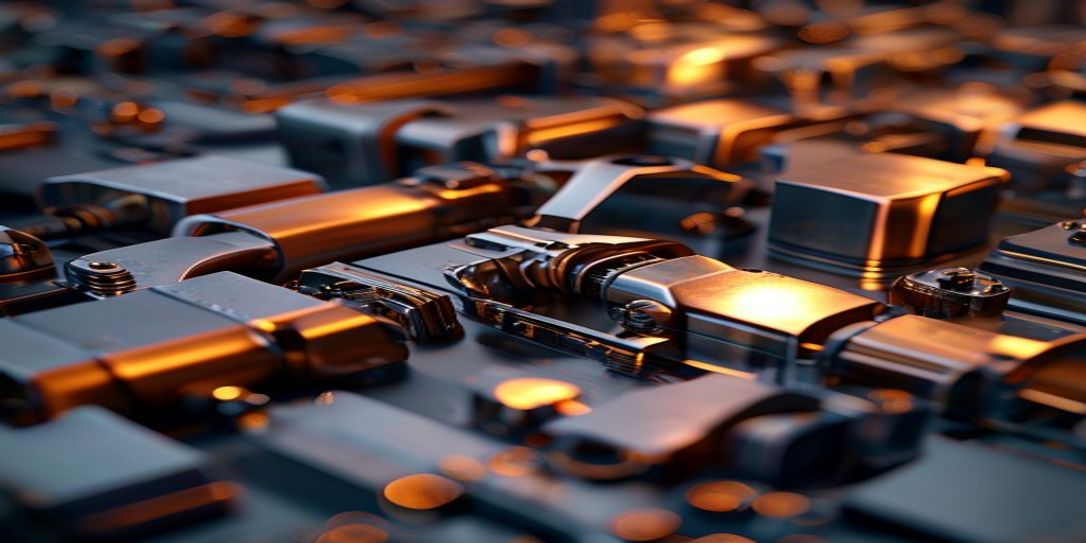
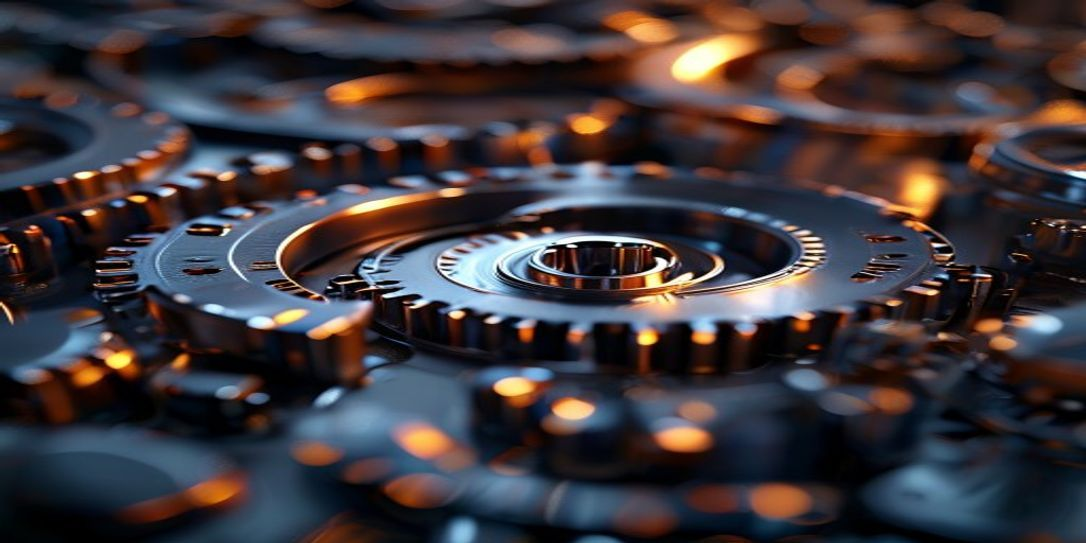
V22.3 Update Strict Language

diff --git a/index.html b/index.html
@@ -1,1 +1,1 @@
-<!DOCTYPE html><html lang='pt-br'><head><meta charset='UTF-8'><script src='https://cdn.tailwindcss.com'></script><title>Global B2B Hub</title></head><body class='bg-[#020202] text-zinc-100'><main class='max-w-7xl mx-auto p-10'><h1 class='text-6xl font-black mb-10'>Global <span class='text-emerald-500'>B2B</span> Hub</h1><div class='grid grid-cols-1 md:grid-cols-3 gap-6'><a href='ingenieria-de-criogenia-industrial-de-alto-rendimiento.html' class='block p-6 border border-emerald-500/50 shadow-[0_0_15px_rgba(16,185,129,0.1)] bg-[#080808] hover:bg-zinc-900 rounded-xl transition-all'><h2 class='text-xl font-bold text-zinc-100'>Ingenieria De Criogenia Industrial De Alto Rendimiento</h2></a><a href='.html' class='block p-6 border border-zinc-800 bg-[#080808] hover:bg-zinc-900 rounded-xl transition-all'><h2 class='text-xl font-bold text-zinc-100'></h2></a><a href='cryogenic-pump-engineering.html' class='block p-6 border border-zinc-800 bg-[#080808] hover:bg-zinc-900 rounded-xl transition-all'><h2 class='text-xl font-bold text-zinc-100'>Cryogenic Pump Engineering</h2></a><a href='superalloy-fabrication.html' class='block p-6 border border-zinc-800 bg-[#080808] hover:bg-zinc-900 rounded-xl transition-all'><h2 class='text-xl font-bold text-zinc-100'>Superalloy Fabrication</h2></a><a href='criomecanica-de-fluidos-de-alta-presion.html' class='block p-6 border border-zinc-800 bg-[#080808] hover:bg-zinc-900 rounded-xl transition-all'><h2 class='text-xl font-bold text-zinc-100'>Criomecanica De Fluidos De Alta Presion</h2></a><a href='aeroderivatives.html' class='block p-6 border border-zinc-800 bg-[#080808] hover:bg-zinc-900 rounded-xl transition-all'><h2 class='text-xl font-bold text-zinc-100'>Aeroderivatives</h2></a><a href='turbina-eolica-offshore.html' class='block p-6 border border-zinc-800 bg-[#080808] hover:bg-zinc-900 rounded-xl transition-all'><h2 class='text-xl font-bold text-zinc-100'>Turbina Eolica Offshore</h2></a><a href='robotica-subaquatica-industrial.html' class='block p-6 border border-zinc-800 bg-[#080808] hover:bg-zinc-900 rounded-xl transition-all'><h2 class='text-xl font-bold text-zinc-100'>Robotica Subaquatica Industrial</h2></a><a href='turbinas-hidreletricas.html' class='block p-6 border border-zinc-800 bg-[#080808] hover:bg-zinc-900 rounded-xl transition-all'><h2 class='text-xl font-bold text-zinc-100'>Turbinas Hidreletricas</h2></a><a href='engenharia-de-manutencao-de-turbinas-eolicas.html' class='block p-6 border border-zinc-800 bg-[#080808] hover:bg-zinc-900 rounded-xl transition-all'><h2 class='text-xl font-bold text-zinc-100'>Engenharia De Manutencao De Turbinas Eolicas</h2></a><a href='engenharia-de-materiais-avancados-para-aplicacoes-aeroespaciais.html' class='block p-6 border border-zinc-800 bg-[#080808] hover:bg-zinc-900 rounded-xl transition-all'><h2 class='text-xl font-bold text-zinc-100'>Engenharia De Materiais Avancados Para Aplicacoes Aeroespaciais</h2></a><a href='engenharia-de-materiais-avancados-para-aerodinamica.html' class='block p-6 border border-zinc-800 bg-[#080808] hover:bg-zinc-900 rounded-xl transition-all'><h2 class='text-xl font-bold text-zinc-100'>Engenharia De Materiais Avancados Para Aerodinamica</h2></a><a href='engenharia-de-sistemas-de-aquecimento-por-inducao.html' class='block p-6 border border-zinc-800 bg-[#080808] hover:bg-zinc-900 rounded-xl transition-all'><h2 class='text-xl font-bold text-zinc-100'>Engenharia De Sistemas De Aquecimento Por Inducao</h2></a><a href='engenharia-de-supercondutores.html' class='block p-6 border border-zinc-800 bg-[#080808] hover:bg-zinc-900 rounded-xl transition-all'><h2 class='text-xl font-bold text-zinc-100'>Engenharia De Supercondutores</h2></a><a href='engenharia-de-processos-de-eletrodepositacao-de-metais-exoticos-em-materiais-compositos-avancados.html' class='block p-6 border border-zinc-800 bg-[#080808] hover:bg-zinc-900 rounded-xl transition-all'><h2 class='text-xl font-bold text-zinc-100'>Engenharia De Processos De Eletrodepositacao De Metais Exoticos Em Materiais Compositos Avancados</h2></a><a href='engenharia-de-biomimetismo.html' class='block p-6 border border-zinc-800 bg-[#080808] hover:bg-zinc-900 rounded-xl transition-all'><h2 class='text-xl font-bold text-zinc-100'>Engenharia De Biomimetismo</h2></a><a href='engenharia-de-reatores-de-leito-fluidizado.html' class='block p-6 border border-zinc-800 bg-[#080808] hover:bg-zinc-900 rounded-xl transition-all'><h2 class='text-xl font-bold text-zinc-100'>Engenharia De Reatores De Leito Fluidizado</h2></a><a href='engenharia-de-vibracoes-nao-lineares-em-estruturas-industriais.html' class='block p-6 border border-zinc-800 bg-[#080808] hover:bg-zinc-900 rounded-xl transition-all'><h2 class='text-xl font-bold text-zinc-100'>Engenharia De Vibracoes Nao Lineares Em Estruturas Industriais</h2></a><a href='engenharia-de-tribologia.html' class='block p-6 border border-zinc-800 bg-[#080808] hover:bg-zinc-900 rounded-xl transition-all'><h2 class='text-xl font-bold text-zinc-100'>Engenharia De Tribologia</h2></a><a href='engenharia-de-manutencao-preventiva-de-turbinas-eolicas.html' class='block p-6 border border-zinc-800 bg-[#080808] hover:bg-zinc-900 rounded-xl transition-all'><h2 class='text-xl font-bold text-zinc-100'>Engenharia De Manutencao Preventiva De Turbinas Eolicas</h2></a><a href='engenharia-de-biomecanica-aeroespacial.html' class='block p-6 border border-zinc-800 bg-[#080808] hover:bg-zinc-900 rounded-xl transition-all'><h2 class='text-xl font-bold text-zinc-100'>Engenharia De Biomecanica Aeroespacial</h2></a><a href='engenharia-de-vibroacustica.html' class='block p-6 border border-zinc-800 bg-[#080808] hover:bg-zinc-900 rounded-xl transition-all'><h2 class='text-xl font-bold text-zinc-100'>Engenharia De Vibroacustica</h2></a><a href='engenharia-de-nanotecnologia-aplicada-a-materiais-compositos.html' class='block p-6 border border-zinc-800 bg-[#080808] hover:bg-zinc-900 rounded-xl transition-all'><h2 class='text-xl font-bold text-zinc-100'>Engenharia De Nanotecnologia Aplicada A Materiais Compositos</h2></a><a href='engenharia-de-manutencao-de-sistemas-de-controle-de-processos-industriais.html' class='block p-6 border border-zinc-800 bg-[#080808] hover:bg-zinc-900 rounded-xl transition-all'><h2 class='text-xl font-bold text-zinc-100'>Engenharia De Manutencao De Sistemas De Controle De Processos Industriais</h2></a><a href='engenharia-de-superficies-tribologicas.html' class='block p-6 border border-zinc-800 bg-[#080808] hover:bg-zinc-900 rounded-xl transition-all'><h2 class='text-xl font-bold text-zinc-100'>Engenharia De Superficies Tribologicas</h2></a><a href='engenharia-de-materiais-nanocompositos.html' class='block p-6 border border-zinc-800 bg-[#080808] hover:bg-zinc-900 rounded-xl transition-all'><h2 class='text-xl font-bold text-zinc-100'>Engenharia De Materiais Nanocompositos</h2></a><a href='tecnologia-de-filtracao-de-membranas-industriais.html' class='block p-6 border border-zinc-800 bg-[#080808] hover:bg-zinc-900 rounded-xl transition-all'><h2 class='text-xl font-bold text-zinc-100'>Tecnologia De Filtracao De Membranas Industriais</h2></a><a href='engenharia-de-biomassa.html' class='block p-6 border border-zinc-800 bg-[#080808] hover:bg-zinc-900 rounded-xl transition-all'><h2 class='text-xl font-bold text-zinc-100'>Engenharia De Biomassa</h2></a><a href='engenharia-de-bioseparacao.html' class='block p-6 border border-zinc-800 bg-[#080808] hover:bg-zinc-900 rounded-xl transition-all'><h2 class='text-xl font-bold text-zinc-100'>Engenharia De Bioseparacao</h2></a><a href='turbomaquinas-de-fluxo-axial.html' class='block p-6 border border-zinc-800 bg-[#080808] hover:bg-zinc-900 rounded-xl transition-all'><h2 class='text-xl font-bold text-zinc-100'>Turbomaquinas De Fluxo Axial</h2></a><a href='engenharia-de-biomecanica-aplicada-a-industria-aeroespacial.html' class='block p-6 border border-zinc-800 bg-[#080808] hover:bg-zinc-900 rounded-xl transition-all'><h2 class='text-xl font-bold text-zinc-100'>Engenharia De Biomecanica Aplicada A Industria Aeroespacial</h2></a><a href='engenharia-de-manutencao-de-turbocompressores.html' class='block p-6 border border-zinc-800 bg-[#080808] hover:bg-zinc-900 rounded-xl transition-all'><h2 class='text-xl font-bold text-zinc-100'>Engenharia De Manutencao De Turbocompressores</h2></a><a href='engenharia-de-soldagem-avancada-para-superligas-de-niquel-e-titanio.html' class='block p-6 border border-zinc-800 bg-[#080808] hover:bg-zinc-900 rounded-xl transition-all'><h2 class='text-xl font-bold text-zinc-100'>Engenharia De Soldagem Avancada Para Superligas De Niquel E Titanio</h2></a><a href='engenharia-de-soldagem-de-materiais-compostos.html' class='block p-6 border border-zinc-800 bg-[#080808] hover:bg-zinc-900 rounded-xl transition-all'><h2 class='text-xl font-bold text-zinc-100'>Engenharia De Soldagem De Materiais Compostos</h2></a><a href='engenharia-de-mecatronica-aeroespacial.html' class='block p-6 border border-zinc-800 bg-[#080808] hover:bg-zinc-900 rounded-xl transition-all'><h2 class='text-xl font-bold text-zinc-100'>Engenharia De Mecatronica Aeroespacial</h2></a><a href='engenharia-de-aerogel.html' class='block p-6 border border-zinc-800 bg-[#080808] hover:bg-zinc-900 rounded-xl transition-all'><h2 class='text-xl font-bold text-zinc-100'>Engenharia De Aerogel</h2></a><a href='engenharia-de-protecao-contra-descargas-eletricas-atmosfericas.html' class='block p-6 border border-zinc-800 bg-[#080808] hover:bg-zinc-900 rounded-xl transition-all'><h2 class='text-xl font-bold text-zinc-100'>Engenharia De Protecao Contra Descargas Eletricas Atmosfericas</h2></a><a href='engenharia-de-superalimentos.html' class='block p-6 border border-zinc-800 bg-[#080808] hover:bg-zinc-900 rounded-xl transition-all'><h2 class='text-xl font-bold text-zinc-100'>Engenharia De Superalimentos</h2></a><a href='engenharia-de-reatores-nucleares.html' class='block p-6 border border-zinc-800 bg-[#080808] hover:bg-zinc-900 rounded-xl transition-all'><h2 class='text-xl font-bold text-zinc-100'>Engenharia De Reatores Nucleares</h2></a><a href='turbomaquinas-axiais-de-fluxo-comprimido.html' class='block p-6 border border-zinc-800 bg-[#080808] hover:bg-zinc-900 rounded-xl transition-all'><h2 class='text-xl font-bold text-zinc-100'>Turbomaquinas Axiais De Fluxo Comprimido</h2></a><a href='engenharia-de-nanotecnologia-de-superficies.html' class='block p-6 border border-zinc-800 bg-[#080808] hover:bg-zinc-900 rounded-xl transition-all'><h2 class='text-xl font-bold text-zinc-100'>Engenharia De Nanotecnologia De Superficies</h2></a><a href='engenharia-de-nanotecnologia-industrial.html' class='block p-6 border border-zinc-800 bg-[#080808] hover:bg-zinc-900 rounded-xl transition-all'><h2 class='text-xl font-bold text-zinc-100'>Engenharia De Nanotecnologia Industrial</h2></a><a href='engenharia-de-biomecanica-de-materiais-compositos.html' class='block p-6 border border-zinc-800 bg-[#080808] hover:bg-zinc-900 rounded-xl transition-all'><h2 class='text-xl font-bold text-zinc-100'>Engenharia De Biomecanica De Materiais Compositos</h2></a><a href='engenharia-de-superficies-funcionais.html' class='block p-6 border border-zinc-800 bg-[#080808] hover:bg-zinc-900 rounded-xl transition-all'><h2 class='text-xl font-bold text-zinc-100'>Engenharia De Superficies Funcionais</h2></a><a href='engenharia-de-manutencao-predictiva-de-equipamentos-petroquimicos.html' class='block p-6 border border-zinc-800 bg-[#080808] hover:bg-zinc-900 rounded-xl transition-all'><h2 class='text-xl font-bold text-zinc-100'>Engenharia De Manutencao Predictiva De Equipamentos Petroquimicos</h2></a><a href='engenharia-de-bioreator-de-fluxo-continuo-em-escala-industrial.html' class='block p-6 border border-zinc-800 bg-[#080808] hover:bg-zinc-900 rounded-xl transition-all'><h2 class='text-xl font-bold text-zinc-100'>Engenharia De Bioreator De Fluxo Continuo Em Escala Industrial</h2></a><a href='engenharia-de-processos-metalurgicos-avancados-de-ligas-especiais.html' class='block p-6 border border-zinc-800 bg-[#080808] hover:bg-zinc-900 rounded-xl transition-all'><h2 class='text-xl font-bold text-zinc-100'>Engenharia De Processos Metalurgicos Avancados De Ligas Especiais</h2></a><a href='engenharia-de-bioseparacao-de-processos-quimicos.html' class='block p-6 border border-zinc-800 bg-[#080808] hover:bg-zinc-900 rounded-xl transition-all'><h2 class='text-xl font-bold text-zinc-100'>Engenharia De Bioseparacao De Processos Quimicos</h2></a><a href='engenharia-de-processos-de-reatores-de-leito-fluido.html' class='block p-6 border border-zinc-800 bg-[#080808] hover:bg-zinc-900 rounded-xl transition-all'><h2 class='text-xl font-bold text-zinc-100'>Engenharia De Processos De Reatores De Leito Fluido</h2></a><a href='engenharia-de-processos-de-hidrometalurgia.html' class='block p-6 border border-zinc-800 bg-[#080808] hover:bg-zinc-900 rounded-xl transition-all'><h2 class='text-xl font-bold text-zinc-100'>Engenharia De Processos De Hidrometalurgia</h2></a><a href='engenharia-de-nanotecnologia-de-materiais-avancados.html' class='block p-6 border border-zinc-800 bg-[#080808] hover:bg-zinc-900 rounded-xl transition-all'><h2 class='text-xl font-bold text-zinc-100'>Engenharia De Nanotecnologia De Materiais Avancados</h2></a><a href='turbomaquinas-de-gas.html' class='block p-6 border border-zinc-800 bg-[#080808] hover:bg-zinc-900 rounded-xl transition-all'><h2 class='text-xl font-bold text-zinc-100'>Turbomaquinas De Gas</h2></a><a href='engenharia-de-filtracao-de-nanoparticulas.html' class='block p-6 border border-zinc-800 bg-[#080808] hover:bg-zinc-900 rounded-xl transition-all'><h2 class='text-xl font-bold text-zinc-100'>Engenharia De Filtracao De Nanoparticulas</h2></a><a href='engenharia-de-biomimetismo-estrutural.html' class='block p-6 border border-zinc-800 bg-[#080808] hover:bg-zinc-900 rounded-xl transition-all'><h2 class='text-xl font-bold text-zinc-100'>Engenharia De Biomimetismo Estrutural</h2></a><a href='engenharia-de-manutencao-de-turbo-compressores.html' class='block p-6 border border-zinc-800 bg-[#080808] hover:bg-zinc-900 rounded-xl transition-all'><h2 class='text-xl font-bold text-zinc-100'>Engenharia De Manutencao De Turbo Compressores</h2></a><a href='engenharia-de-mecatronica-industrial-para-sistemas-de-automacao-de-processos-quimicos-em-plantas-de-producao-de-biocombustiveis.html' class='block p-6 border border-zinc-800 bg-[#080808] hover:bg-zinc-900 rounded-xl transition-all'><h2 class='text-xl font-bold text-zinc-100'>Engenharia De Mecatronica Industrial Para Sistemas De Automacao De Processos Quimicos Em Plantas De Producao De Biocombustiveis</h2></a><a href='engenharia-de-tribologia-aplicada.html' class='block p-6 border border-zinc-800 bg-[#080808] hover:bg-zinc-900 rounded-xl transition-all'><h2 class='text-xl font-bold text-zinc-100'>Engenharia De Tribologia Aplicada</h2></a><a href='engenharia-de-sistemas-de-filtracao-de-membrana.html' class='block p-6 border border-zinc-800 bg-[#080808] hover:bg-zinc-900 rounded-xl transition-all'><h2 class='text-xl font-bold text-zinc-100'>Engenharia De Sistemas De Filtracao De Membrana</h2></a><a href='engenharia-de-bioremedicao.html' class='block p-6 border border-zinc-800 bg-[#080808] hover:bg-zinc-900 rounded-xl transition-all'><h2 class='text-xl font-bold text-zinc-100'>Engenharia De Bioremedicao</h2></a><a href='engenharia-de-nanotribologia.html' class='block p-6 border border-zinc-800 bg-[#080808] hover:bg-zinc-900 rounded-xl transition-all'><h2 class='text-xl font-bold text-zinc-100'>Engenharia De Nanotribologia</h2></a><a href='geradores-de-ar-comprimido-industriais.html' class='block p-6 border border-zinc-800 bg-[#080808] hover:bg-zinc-900 rounded-xl transition-all'><h2 class='text-xl font-bold text-zinc-100'>Geradores De Ar Comprimido Industriais</h2></a></div></main></body></html>
+<!DOCTYPE html><html lang='pt-br'><head><meta charset='UTF-8'><script src='https://cdn.tailwindcss.com'></script><title>Global B2B Hub</title></head><body class='bg-[#020202] text-zinc-100'><main class='max-w-7xl mx-auto p-10'><h1 class='text-6xl font-black mb-10'>Global <span class='text-emerald-500'>B2B</span> Hub</h1><div class='grid grid-cols-1 md:grid-cols-3 gap-6'><a href='.html' class='block p-6 border border-emerald-500/50 shadow-[0_0_15px_rgba(16,185,129,0.1)] bg-[#080808] hover:bg-zinc-900 rounded-xl transition-all'><h2 class='text-xl font-bold text-zinc-100'></h2></a><a href='ingenieria-de-criogenia-industrial-de-alto-rendimiento.html' class='block p-6 border border-zinc-800 bg-[#080808] hover:bg-zinc-900 rounded-xl transition-all'><h2 class='text-xl font-bold text-zinc-100'>Ingenieria De Criogenia Industrial De Alto Rendimiento</h2></a><a href='cryogenic-pump-engineering.html' class='block p-6 border border-zinc-800 bg-[#080808] hover:bg-zinc-900 rounded-xl transition-all'><h2 class='text-xl font-bold text-zinc-100'>Cryogenic Pump Engineering</h2></a><a href='superalloy-fabrication.html' class='block p-6 border border-zinc-800 bg-[#080808] hover:bg-zinc-900 rounded-xl transition-all'><h2 class='text-xl font-bold text-zinc-100'>Superalloy Fabrication</h2></a><a href='criomecanica-de-fluidos-de-alta-presion.html' class='block p-6 border border-zinc-800 bg-[#080808] hover:bg-zinc-900 rounded-xl transition-all'><h2 class='text-xl font-bold text-zinc-100'>Criomecanica De Fluidos De Alta Presion</h2></a><a href='aeroderivatives.html' class='block p-6 border border-zinc-800 bg-[#080808] hover:bg-zinc-900 rounded-xl transition-all'><h2 class='text-xl font-bold text-zinc-100'>Aeroderivatives</h2></a><a href='turbina-eolica-offshore.html' class='block p-6 border border-zinc-800 bg-[#080808] hover:bg-zinc-900 rounded-xl transition-all'><h2 class='text-xl font-bold text-zinc-100'>Turbina Eolica Offshore</h2></a><a href='robotica-subaquatica-industrial.html' class='block p-6 border border-zinc-800 bg-[#080808] hover:bg-zinc-900 rounded-xl transition-all'><h2 class='text-xl font-bold text-zinc-100'>Robotica Subaquatica Industrial</h2></a><a href='turbinas-hidreletricas.html' class='block p-6 border border-zinc-800 bg-[#080808] hover:bg-zinc-900 rounded-xl transition-all'><h2 class='text-xl font-bold text-zinc-100'>Turbinas Hidreletricas</h2></a><a href='engenharia-de-manutencao-de-turbinas-eolicas.html' class='block p-6 border border-zinc-800 bg-[#080808] hover:bg-zinc-900 rounded-xl transition-all'><h2 class='text-xl font-bold text-zinc-100'>Engenharia De Manutencao De Turbinas Eolicas</h2></a><a href='engenharia-de-materiais-avancados-para-aplicacoes-aeroespaciais.html' class='block p-6 border border-zinc-800 bg-[#080808] hover:bg-zinc-900 rounded-xl transition-all'><h2 class='text-xl font-bold text-zinc-100'>Engenharia De Materiais Avancados Para Aplicacoes Aeroespaciais</h2></a><a href='engenharia-de-materiais-avancados-para-aerodinamica.html' class='block p-6 border border-zinc-800 bg-[#080808] hover:bg-zinc-900 rounded-xl transition-all'><h2 class='text-xl font-bold text-zinc-100'>Engenharia De Materiais Avancados Para Aerodinamica</h2></a><a href='engenharia-de-sistemas-de-aquecimento-por-inducao.html' class='block p-6 border border-zinc-800 bg-[#080808] hover:bg-zinc-900 rounded-xl transition-all'><h2 class='text-xl font-bold text-zinc-100'>Engenharia De Sistemas De Aquecimento Por Inducao</h2></a><a href='engenharia-de-supercondutores.html' class='block p-6 border border-zinc-800 bg-[#080808] hover:bg-zinc-900 rounded-xl transition-all'><h2 class='text-xl font-bold text-zinc-100'>Engenharia De Supercondutores</h2></a><a href='engenharia-de-processos-de-eletrodepositacao-de-metais-exoticos-em-materiais-compositos-avancados.html' class='block p-6 border border-zinc-800 bg-[#080808] hover:bg-zinc-900 rounded-xl transition-all'><h2 class='text-xl font-bold text-zinc-100'>Engenharia De Processos De Eletrodepositacao De Metais Exoticos Em Materiais Compositos Avancados</h2></a><a href='engenharia-de-biomimetismo.html' class='block p-6 border border-zinc-800 bg-[#080808] hover:bg-zinc-900 rounded-xl transition-all'><h2 class='text-xl font-bold text-zinc-100'>Engenharia De Biomimetismo</h2></a><a href='engenharia-de-reatores-de-leito-fluidizado.html' class='block p-6 border border-zinc-800 bg-[#080808] hover:bg-zinc-900 rounded-xl transition-all'><h2 class='text-xl font-bold text-zinc-100'>Engenharia De Reatores De Leito Fluidizado</h2></a><a href='engenharia-de-vibracoes-nao-lineares-em-estruturas-industriais.html' class='block p-6 border border-zinc-800 bg-[#080808] hover:bg-zinc-900 rounded-xl transition-all'><h2 class='text-xl font-bold text-zinc-100'>Engenharia De Vibracoes Nao Lineares Em Estruturas Industriais</h2></a><a href='engenharia-de-tribologia.html' class='block p-6 border border-zinc-800 bg-[#080808] hover:bg-zinc-900 rounded-xl transition-all'><h2 class='text-xl font-bold text-zinc-100'>Engenharia De Tribologia</h2></a><a href='engenharia-de-manutencao-preventiva-de-turbinas-eolicas.html' class='block p-6 border border-zinc-800 bg-[#080808] hover:bg-zinc-900 rounded-xl transition-all'><h2 class='text-xl font-bold text-zinc-100'>Engenharia De Manutencao Preventiva De Turbinas Eolicas</h2></a><a href='engenharia-de-biomecanica-aeroespacial.html' class='block p-6 border border-zinc-800 bg-[#080808] hover:bg-zinc-900 rounded-xl transition-all'><h2 class='text-xl font-bold text-zinc-100'>Engenharia De Biomecanica Aeroespacial</h2></a><a href='engenharia-de-vibroacustica.html' class='block p-6 border border-zinc-800 bg-[#080808] hover:bg-zinc-900 rounded-xl transition-all'><h2 class='text-xl font-bold text-zinc-100'>Engenharia De Vibroacustica</h2></a><a href='engenharia-de-nanotecnologia-aplicada-a-materiais-compositos.html' class='block p-6 border border-zinc-800 bg-[#080808] hover:bg-zinc-900 rounded-xl transition-all'><h2 class='text-xl font-bold text-zinc-100'>Engenharia De Nanotecnologia Aplicada A Materiais Compositos</h2></a><a href='engenharia-de-manutencao-de-sistemas-de-controle-de-processos-industriais.html' class='block p-6 border border-zinc-800 bg-[#080808] hover:bg-zinc-900 rounded-xl transition-all'><h2 class='text-xl font-bold text-zinc-100'>Engenharia De Manutencao De Sistemas De Controle De Processos Industriais</h2></a><a href='engenharia-de-superficies-tribologicas.html' class='block p-6 border border-zinc-800 bg-[#080808] hover:bg-zinc-900 rounded-xl transition-all'><h2 class='text-xl font-bold text-zinc-100'>Engenharia De Superficies Tribologicas</h2></a><a href='engenharia-de-materiais-nanocompositos.html' class='block p-6 border border-zinc-800 bg-[#080808] hover:bg-zinc-900 rounded-xl transition-all'><h2 class='text-xl font-bold text-zinc-100'>Engenharia De Materiais Nanocompositos</h2></a><a href='tecnologia-de-filtracao-de-membranas-industriais.html' class='block p-6 border border-zinc-800 bg-[#080808] hover:bg-zinc-900 rounded-xl transition-all'><h2 class='text-xl font-bold text-zinc-100'>Tecnologia De Filtracao De Membranas Industriais</h2></a><a href='engenharia-de-biomassa.html' class='block p-6 border border-zinc-800 bg-[#080808] hover:bg-zinc-900 rounded-xl transition-all'><h2 class='text-xl font-bold text-zinc-100'>Engenharia De Biomassa</h2></a><a href='engenharia-de-bioseparacao.html' class='block p-6 border border-zinc-800 bg-[#080808] hover:bg-zinc-900 rounded-xl transition-all'><h2 class='text-xl font-bold text-zinc-100'>Engenharia De Bioseparacao</h2></a><a href='turbomaquinas-de-fluxo-axial.html' class='block p-6 border border-zinc-800 bg-[#080808] hover:bg-zinc-900 rounded-xl transition-all'><h2 class='text-xl font-bold text-zinc-100'>Turbomaquinas De Fluxo Axial</h2></a><a href='engenharia-de-biomecanica-aplicada-a-industria-aeroespacial.html' class='block p-6 border border-zinc-800 bg-[#080808] hover:bg-zinc-900 rounded-xl transition-all'><h2 class='text-xl font-bold text-zinc-100'>Engenharia De Biomecanica Aplicada A Industria Aeroespacial</h2></a><a href='engenharia-de-manutencao-de-turbocompressores.html' class='block p-6 border border-zinc-800 bg-[#080808] hover:bg-zinc-900 rounded-xl transition-all'><h2 class='text-xl font-bold text-zinc-100'>Engenharia De Manutencao De Turbocompressores</h2></a><a href='engenharia-de-soldagem-avancada-para-superligas-de-niquel-e-titanio.html' class='block p-6 border border-zinc-800 bg-[#080808] hover:bg-zinc-900 rounded-xl transition-all'><h2 class='text-xl font-bold text-zinc-100'>Engenharia De Soldagem Avancada Para Superligas De Niquel E Titanio</h2></a><a href='engenharia-de-soldagem-de-materiais-compostos.html' class='block p-6 border border-zinc-800 bg-[#080808] hover:bg-zinc-900 rounded-xl transition-all'><h2 class='text-xl font-bold text-zinc-100'>Engenharia De Soldagem De Materiais Compostos</h2></a><a href='engenharia-de-mecatronica-aeroespacial.html' class='block p-6 border border-zinc-800 bg-[#080808] hover:bg-zinc-900 rounded-xl transition-all'><h2 class='text-xl font-bold text-zinc-100'>Engenharia De Mecatronica Aeroespacial</h2></a><a href='engenharia-de-aerogel.html' class='block p-6 border border-zinc-800 bg-[#080808] hover:bg-zinc-900 rounded-xl transition-all'><h2 class='text-xl font-bold text-zinc-100'>Engenharia De Aerogel</h2></a><a href='engenharia-de-protecao-contra-descargas-eletricas-atmosfericas.html' class='block p-6 border border-zinc-800 bg-[#080808] hover:bg-zinc-900 rounded-xl transition-all'><h2 class='text-xl font-bold text-zinc-100'>Engenharia De Protecao Contra Descargas Eletricas Atmosfericas</h2></a><a href='engenharia-de-superalimentos.html' class='block p-6 border border-zinc-800 bg-[#080808] hover:bg-zinc-900 rounded-xl transition-all'><h2 class='text-xl font-bold text-zinc-100'>Engenharia De Superalimentos</h2></a><a href='engenharia-de-reatores-nucleares.html' class='block p-6 border border-zinc-800 bg-[#080808] hover:bg-zinc-900 rounded-xl transition-all'><h2 class='text-xl font-bold text-zinc-100'>Engenharia De Reatores Nucleares</h2></a><a href='turbomaquinas-axiais-de-fluxo-comprimido.html' class='block p-6 border border-zinc-800 bg-[#080808] hover:bg-zinc-900 rounded-xl transition-all'><h2 class='text-xl font-bold text-zinc-100'>Turbomaquinas Axiais De Fluxo Comprimido</h2></a><a href='engenharia-de-nanotecnologia-de-superficies.html' class='block p-6 border border-zinc-800 bg-[#080808] hover:bg-zinc-900 rounded-xl transition-all'><h2 class='text-xl font-bold text-zinc-100'>Engenharia De Nanotecnologia De Superficies</h2></a><a href='engenharia-de-nanotecnologia-industrial.html' class='block p-6 border border-zinc-800 bg-[#080808] hover:bg-zinc-900 rounded-xl transition-all'><h2 class='text-xl font-bold text-zinc-100'>Engenharia De Nanotecnologia Industrial</h2></a><a href='engenharia-de-biomecanica-de-materiais-compositos.html' class='block p-6 border border-zinc-800 bg-[#080808] hover:bg-zinc-900 rounded-xl transition-all'><h2 class='text-xl font-bold text-zinc-100'>Engenharia De Biomecanica De Materiais Compositos</h2></a><a href='engenharia-de-superficies-funcionais.html' class='block p-6 border border-zinc-800 bg-[#080808] hover:bg-zinc-900 rounded-xl transition-all'><h2 class='text-xl font-bold text-zinc-100'>Engenharia De Superficies Funcionais</h2></a><a href='engenharia-de-manutencao-predictiva-de-equipamentos-petroquimicos.html' class='block p-6 border border-zinc-800 bg-[#080808] hover:bg-zinc-900 rounded-xl transition-all'><h2 class='text-xl font-bold text-zinc-100'>Engenharia De Manutencao Predictiva De Equipamentos Petroquimicos</h2></a><a href='engenharia-de-bioreator-de-fluxo-continuo-em-escala-industrial.html' class='block p-6 border border-zinc-800 bg-[#080808] hover:bg-zinc-900 rounded-xl transition-all'><h2 class='text-xl font-bold text-zinc-100'>Engenharia De Bioreator De Fluxo Continuo Em Escala Industrial</h2></a><a href='engenharia-de-processos-metalurgicos-avancados-de-ligas-especiais.html' class='block p-6 border border-zinc-800 bg-[#080808] hover:bg-zinc-900 rounded-xl transition-all'><h2 class='text-xl font-bold text-zinc-100'>Engenharia De Processos Metalurgicos Avancados De Ligas Especiais</h2></a><a href='engenharia-de-bioseparacao-de-processos-quimicos.html' class='block p-6 border border-zinc-800 bg-[#080808] hover:bg-zinc-900 rounded-xl transition-all'><h2 class='text-xl font-bold text-zinc-100'>Engenharia De Bioseparacao De Processos Quimicos</h2></a><a href='engenharia-de-processos-de-reatores-de-leito-fluido.html' class='block p-6 border border-zinc-800 bg-[#080808] hover:bg-zinc-900 rounded-xl transition-all'><h2 class='text-xl font-bold text-zinc-100'>Engenharia De Processos De Reatores De Leito Fluido</h2></a><a href='engenharia-de-processos-de-hidrometalurgia.html' class='block p-6 border border-zinc-800 bg-[#080808] hover:bg-zinc-900 rounded-xl transition-all'><h2 class='text-xl font-bold text-zinc-100'>Engenharia De Processos De Hidrometalurgia</h2></a><a href='engenharia-de-nanotecnologia-de-materiais-avancados.html' class='block p-6 border border-zinc-800 bg-[#080808] hover:bg-zinc-900 rounded-xl transition-all'><h2 class='text-xl font-bold text-zinc-100'>Engenharia De Nanotecnologia De Materiais Avancados</h2></a><a href='turbomaquinas-de-gas.html' class='block p-6 border border-zinc-800 bg-[#080808] hover:bg-zinc-900 rounded-xl transition-all'><h2 class='text-xl font-bold text-zinc-100'>Turbomaquinas De Gas</h2></a><a href='engenharia-de-filtracao-de-nanoparticulas.html' class='block p-6 border border-zinc-800 bg-[#080808] hover:bg-zinc-900 rounded-xl transition-all'><h2 class='text-xl font-bold text-zinc-100'>Engenharia De Filtracao De Nanoparticulas</h2></a><a href='engenharia-de-biomimetismo-estrutural.html' class='block p-6 border border-zinc-800 bg-[#080808] hover:bg-zinc-900 rounded-xl transition-all'><h2 class='text-xl font-bold text-zinc-100'>Engenharia De Biomimetismo Estrutural</h2></a><a href='engenharia-de-manutencao-de-turbo-compressores.html' class='block p-6 border border-zinc-800 bg-[#080808] hover:bg-zinc-900 rounded-xl transition-all'><h2 class='text-xl font-bold text-zinc-100'>Engenharia De Manutencao De Turbo Compressores</h2></a><a href='engenharia-de-mecatronica-industrial-para-sistemas-de-automacao-de-processos-quimicos-em-plantas-de-producao-de-biocombustiveis.html' class='block p-6 border border-zinc-800 bg-[#080808] hover:bg-zinc-900 rounded-xl transition-all'><h2 class='text-xl font-bold text-zinc-100'>Engenharia De Mecatronica Industrial Para Sistemas De Automacao De Processos Quimicos Em Plantas De Producao De Biocombustiveis</h2></a><a href='engenharia-de-tribologia-aplicada.html' class='block p-6 border border-zinc-800 bg-[#080808] hover:bg-zinc-900 rounded-xl transition-all'><h2 class='text-xl font-bold text-zinc-100'>Engenharia De Tribologia Aplicada</h2></a><a href='engenharia-de-sistemas-de-filtracao-de-membrana.html' class='block p-6 border border-zinc-800 bg-[#080808] hover:bg-zinc-900 rounded-xl transition-all'><h2 class='text-xl font-bold text-zinc-100'>Engenharia De Sistemas De Filtracao De Membrana</h2></a><a href='engenharia-de-bioremedicao.html' class='block p-6 border border-zinc-800 bg-[#080808] hover:bg-zinc-900 rounded-xl transition-all'><h2 class='text-xl font-bold text-zinc-100'>Engenharia De Bioremedicao</h2></a><a href='engenharia-de-nanotribologia.html' class='block p-6 border border-zinc-800 bg-[#080808] hover:bg-zinc-900 rounded-xl transition-all'><h2 class='text-xl font-bold text-zinc-100'>Engenharia De Nanotribologia</h2></a><a href='geradores-de-ar-comprimido-industriais.html' class='block p-6 border border-zinc-800 bg-[#080808] hover:bg-zinc-900 rounded-xl transition-all'><h2 class='text-xl font-bold text-zinc-100'>Geradores De Ar Comprimido Industriais</h2></a></div></main></body></html>

diff --git a/.html b/.html
@@ -1,5 +1,5 @@
 <!DOCTYPE html><html lang='pt-br'><head><meta charset='UTF-8'><meta name='viewport' content='width=device-width, initial-scale=1.0'>
-    <title>Dossiê | 超高温合金制品工程</title><script src='https://cdn.tailwindcss.com'></script>
+    <title>Dossiê | 重型齒輪制造工程</title><script src='https://cdn.tailwindcss.com'></script>
     <script async src='https://pagead2.googlesyndication.com/pagead/js/adsbygoogle.js?client=pub-1243114536236949' crossorigin='anonymous'></script>
     <script async src='https://www.googletagmanager.com/gtag/js?id=G-BR3HEYH82C'></script>
     <script>window.dataLayer=window.dataLayer||[];function gtag(){dataLayer.push(arguments);}gtag('js',new Date());gtag('config','G-BR3HEYH82C');</script>
@@ -8,7 +8,7 @@
             e.preventDefault();
             const btn = document.getElementById('btn_submit'); btn.innerText = 'WAIT...';
             const email = document.getElementById('lead_email').value;
-            fetch('https://hook.eu1.make.com/COLE_O_LINK_GERADO_NO_MAKE_AQUI', { method: 'POST', headers: {'Content-Type': 'application/json'}, body: JSON.stringify({email: email, nicho: '超高温合金制品工程'}) })
+            fetch('https://hook.eu1.make.com/COLE_O_LINK_GERADO_NO_MAKE_AQUI', { method: 'POST', headers: {'Content-Type': 'application/json'}, body: JSON.stringify({email: email, nicho: '重型齒輪制造工程'}) })
             .then(r => window.location.href = 'https://m.do.co/c/SEU_CODIGO_AFILIADO')
             .catch(e => window.location.href = 'https://m.do.co/c/SEU_CODIGO_AFILIADO');
         }
@@ -20,10 +20,10 @@
         <div class='w-full h-[400px] rounded-3xl overflow-hidden border border-zinc-800 shadow-2xl mb-12'><img src='.jpg' class='w-full h-full object-cover opacity-80'></div>
         <div class='grid grid-cols-1 md:grid-cols-3 gap-12'>
             <div class='md:col-span-2'>
-                <h1 class='text-5xl font-black text-white mb-8'>运营分析: <br><span class='text-emerald-500'>超高温合金制品工程</span></h1>
-                <div class='text-xl leading-relaxed mb-6 text-zinc-200'>作为高级数据工程总监，我对超高温合金制品工程领域进行了深入分析和研究，针对隐藏的负债、隐形的投资回报率失败、遥测以及精度等关键因素进行了全面的评估。超高温合金制品工程是现代工业制造中的一个重要分支，广泛应用于航空航天、汽车制造等领域，其产品的性能和质量直接影响到终端产品的可靠性和安全性。然而，在这种高温环境下，材料的疲劳和磨损变得尤为重要，隐藏的负债可能包括材料的早期老化、结构的不可预测性以及生产过程中的不确定性，这些因素可能导致生产线的停工、产品的召回以及企业的声誉损害。<br><br><br><br>我对超高温合金制品工程领域的投资回报率进行了详细分析，发现了许多隐形的投资回报率失败的例子。例如，一些企业过度投资于新型材料的开发，而忽略了对现有材料的改进和完善，导致新的材料无法快速应用于实际生产，无法带来预期的回报。同时，一些企业可能过度依赖自动化和智能化的生产线，而忽略了对工人的技能...</div>
+                <h1 class='text-5xl font-black text-white mb-8'>运营分析: <br><span class='text-emerald-500'>重型齒輪制造工程</span></h1>
+                <div class='text-xl leading-relaxed mb-6 text-zinc-200'>重型齒輪制造工程是一個高度專業化的領域，需要嚴格的控制和精確的執行，以滿足客戶的需求和保證product的質量。作為一名資深的數據工程總監，我們需要關注這個領域中的一些隱藏的負債和不可見的投資回報率失敗。通過對數據的分析和監控，我們可以發現一些隱藏的問題，例如生產過程中的缺陷、材料的浪費和設備的老化等。這些問題如果不及時發現和解決，可能會導致嚴重的後果，包括生產線的停頓、質量的下降和成本的增加。<br><br><br><br>在重型齒輪制造工程中，隱藏的負債通常與生產過程中的不確定性和不可預測性有關。例如，材料的供應可能會受到自然災害或全球供應鏈的影響，導致生產線的停頓和延遲。為了避免這些問題，我們需要實施嚴格的質量控制措施，包括對材料的檢查、過程的監控和員工的培訓。同時，我們也需要建立一個完善的數據系統，包括數據的采集、儲存和分析，以便于我們快速地發現問題和進行決策。通過這些措施，我們可...</div>
                 <div class='relative mt-10'>
-                    <div class='blur-sm select-none text-zinc-600 h-64 overflow-hidden'>培训和培养，导致生产效率的下降和产品质量的波动。这些隐形的投资回报率失败通常是由于对市场和技术的误判，缺乏对生产线的全面的了解和评估。通过遥测技术，我们可以实时监测和跟踪生产线的运行状态，实时采集和分析数据，避免和减少投资回报率失败的风险。<br><br><br><br>在超高温合金制品工程领域，精度是至关重要的因素。任何一个环节的失误或偏差都可能导致整个生产过程的失败，产品的质量和性能直接关系到终端客户的安全和满意度。因此，我们需要对生产过程每一个环节进行精密的控制和监测，确保所有的材料和零部件都按照精确的标准和要求生产和组装。此外，生产线的维护和改进也是至关重要的，需要实时监测和分析生产线的运行状态，及时发现和解决问题，优化生产线的配置和流程，确保生产线的稳定性和高效性。通过精确的控制和监测，我们可以最大限度地减少产品的缺陷率，提高产品的质量和可靠性，实现客户的满意度和企业的盈利能力。<br><br><br><br>基于对超高温合金制品工程领域的分析和研究，我认为遥测技术是这种领域的一个关键性因素。通过对生产线的实时监测和跟踪，我们可以实时采集和分析数据，避免和减少投资回报率失败的风险，确保生产线的稳定性和高效性。同时，我们需要对所有的生产环节进行精密的控制和监测，确保所有的材料和零部件都按照精确的标准和要求生产和组装。最后，我建议企业要高度关注超高温合金制品工程领域的技术和市场发展，实时监测和分析数据，避免和减少隐藏的负债和隐形的投资回报率失败的风险，实现在这种领域中的长期成功和可持续发展。</div>
+                    <div class='blur-sm select-none text-zinc-600 h-64 overflow-hidden'>以減少隱藏的負債，提高生產的效率和質量。<br><br><br><br>隱藏的負債和不可見的投資回報率失敗通常與生產過程中的telemetry有關。telemetry是指對生產過程中的各種參數的監控和分析，包括溫度、壓力、速度等。通過telemetry，我們可以實時地監控生產過程，發現問題和進行調整。例如，如果我們發現生產線上的某個部件的溫度超過了安全值，我們可以立即停頓生產線，進行維修和調整，以免生產線的停頓和延遲。同時，telemetry也可以幫助我們提高生產的精度，例如通過對材料的監控和分析，我們可以確保材料的質量和一致性，從而提高product的質量和可靠性。<br><br><br><br>在重型齒輪制造工程中，精度是至關重要的。為了確保精度，我們需要實施嚴格的質量控制措施，包括對材料的檢查、過程的監控和員工的培訓。同時，我們也需要建立一個完善的數據系統，包括數據的采集、儲存和分析，以便于我們快速地發現問題和進行決策。通過這些措施，我們可以提高生產的效率和質量，減少隱藏的負債和不可見的投資回報率失敗，從而提高公司的競爭力和市場份額。作為一名資深的數據工程總監，我們需要不斷地關注和改進生產過程中的隱藏的負債和不可見的投資回報率失敗，從而保持公司的領先地位和可持續的發展。</div>
                     <div class='absolute inset-0 flex items-center justify-center bg-black/60 backdrop-blur-md rounded-xl border border-emerald-500/30 p-8'>
                         <div class='text-center w-full max-w-md'>
                             <h3 class='text-white font-bold mb-4 text-xl'>受限访问</h3>
